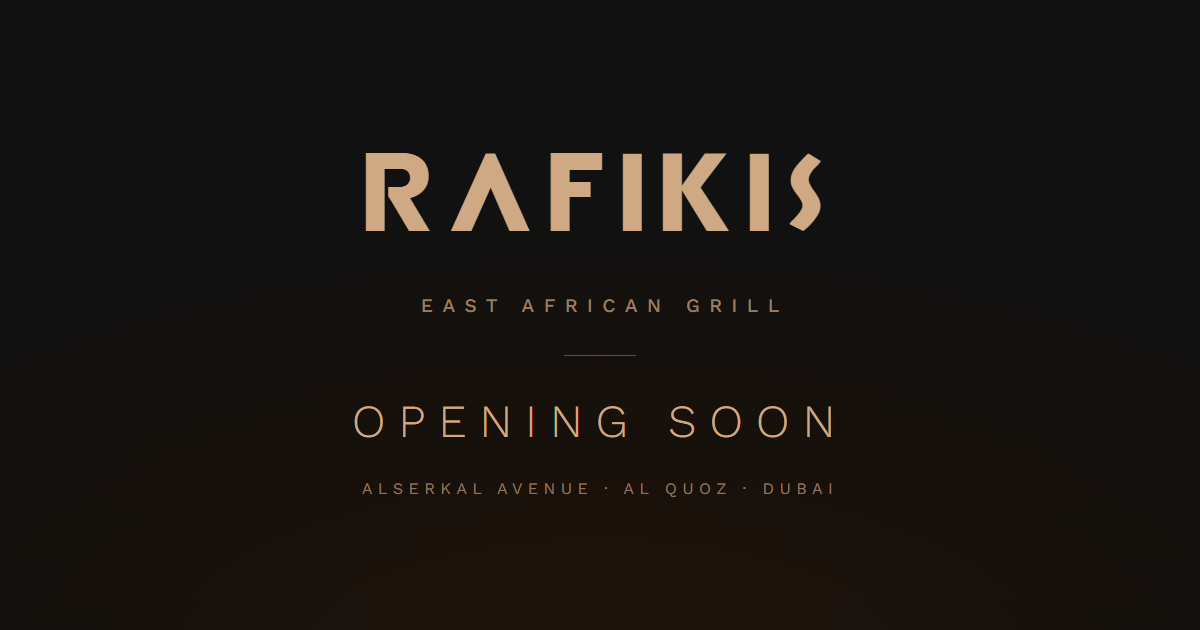
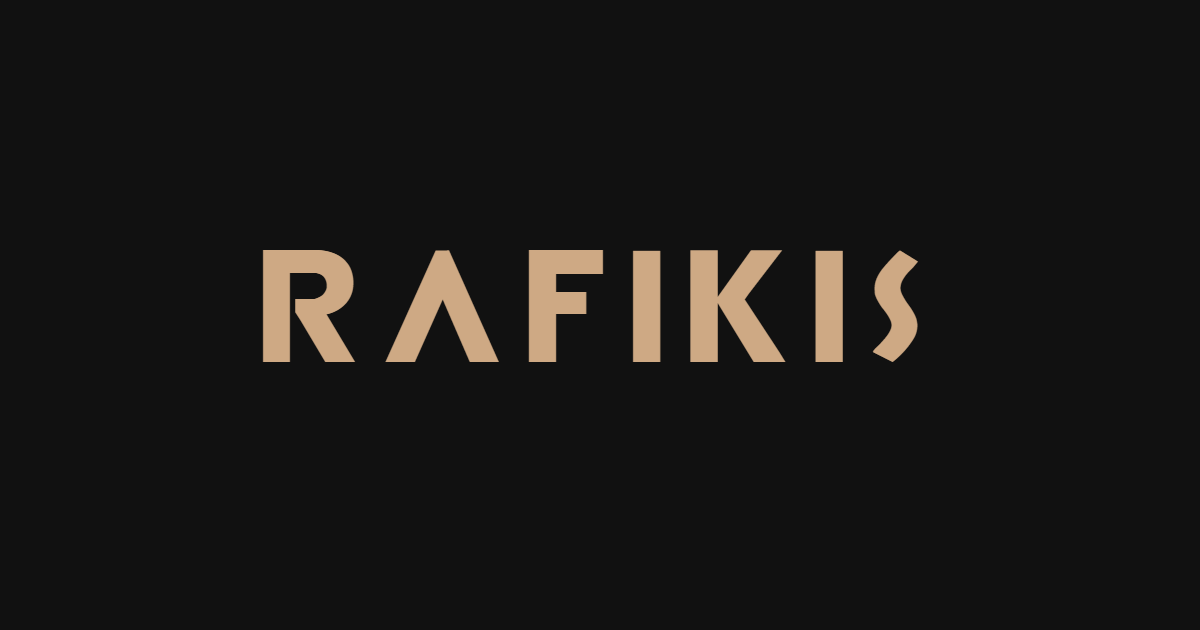
Use a plain dash in the share title, and rebuild the OG image
WhatsApp was previewing the link as "Rafikis — East African Grill at
Alserkal Avenue". The em dash reads as machine-written, so the title now
uses a plain hyphen: "Rafikis - East African Grill at Alserkal Avenue".
This applies to the page title, og:title and twitter:title, which all come
from the one constant. og:image:alt and the header's aria-label lose their
em dashes too, and there is now no em dash anywhere in the rendered head.

The share image is replaced. The supplied wordmark artwork is a 1080x1350
portrait square, which is the wrong shape for a link preview: the crawlers
want landscape, 1200x630 and under 300KB. scripts/make-og.py measures the
wordmark out of the artwork and recomposes it on a 1200x630 Charcoal field
at 76% of the width, the same proportion the favicon uses, so the two
surfaces match. Output is 25KB.

- scripts/make-og.py is now the source of record for public/og.jpg.
  scripts/render-brand-assets.mjs no longer writes that file, because
  running it would overwrite the flat JPEG with a template render; it still
  produces public/og.png.
- brand-templates/og.html is updated to the same composition, so the
  template and the shipped JPEG agree.
- scripts/probes/head-meta.js added, which dumps every share tag and reports
  whether the head contains an em dash at all.

diff --git a/brand-templates/og.html b/brand-templates/og.html
@@ -2,84 +2,38 @@
 <html lang="en">
   <head>
     <meta charset="utf-8" />
-    <title>Rafikis — Open Graph card</title>
+    <title>Rafikis - Open Graph card</title>
     <link rel="stylesheet" href="./fonts.css" />
     <link rel="stylesheet" href="./brand.css" />
     <link rel="stylesheet" href="./templates.css" />
     <style>
+      /* Charcoal field with the wordmark centred and nothing else. Same
+         treatment as public/favicon.svg, scaled to a landscape card.
+
+         scripts/make-og.py produces the shipped public/og.jpg from the wordmark
+         artwork Azeem supplied, so that file is the source of record. This page
+         is the reference for the layout, and renders the same composition from
+         the self-hosted font. */
       #og-card {
         width: 1200px;
         height: 630px;
-      }
-      #og-card .announce-inner {
-        position: absolute;
-        inset: 0;
         display: flex;
-        flex-direction: column;
         align-items: center;
         justify-content: center;
-        text-align: center;
       }
       #og-card .wordmark {
         font-family: "Rafikis", "Work Sans", sans-serif;
-        font-size: 132px;
+        font-size: 190px;
         letter-spacing: 0.1em;
         line-height: 1;
-      }
-      #og-card .descriptor {
-        font-family: "Work Sans", system-ui, sans-serif;
-        font-weight: 500;
-        font-size: 19px;
-        letter-spacing: 0.5em;
-        text-transform: uppercase;
-        margin-top: 30px;
-        padding-left: 0.5em;
-        color: rgba(206, 169, 132, 0.72);
-      }
-      #og-card .rule {
-        width: 72px;
-        height: 1px;
-        margin: 38px 0;
-      }
-      #og-card .headline {
-        font-family: "Work Sans", system-ui, sans-serif;
-        font-weight: 300;
-        font-size: 46px;
-        letter-spacing: 0.28em;
-        text-transform: uppercase;
-        line-height: 1.2;
-      }
-      #og-card .location {
-        font-family: "Work Sans", system-ui, sans-serif;
-        font-weight: 400;
-        font-size: 16px;
-        letter-spacing: 0.34em;
-        text-transform: uppercase;
-        margin-top: 30px;
-        color: rgba(206, 169, 132, 0.66);
+        color: var(--sandstone);
+        white-space: nowrap;
       }
     </style>
   </head>
   <body>
-    <section class="card announce" id="og-card">
-      <img class="photo" src="../src/assets/smoke.webp" alt="" style="opacity: 0.45" />
-      <div
-        class="warm-wash"
-        style="
-          background: radial-gradient(110% 100% at 50% 112%, #3a1c07 0%, #1d0f05 40%, #111111 78%);
-          opacity: 1;
-          mix-blend-mode: normal;
-        "
-      ></div>
-      <div class="photo-scrim" style="background: rgba(17, 17, 17, 0.4)"></div>
-      <div class="photo-vignette"></div>
-      <div class="announce-inner">
-        <span class="wordmark">RAFIKIS</span>
-        <span class="descriptor">East African Grill</span>
-        <div class="rule"></div>
-        <span class="headline">Opening Soon</span>
-        <span class="location">Alserkal Avenue &middot; Al Quoz &middot; Dubai</span>
-      </div>
+    <section class="card" id="og-card">
+      <span class="wordmark">RAFIKIS</span>
     </section>
   </body>
 </html>

diff --git a/src/routes/__root.tsx b/src/routes/__root.tsx
@@ -12,7 +12,7 @@ import appCss from "../styles.css?url";
 
 const SITE_URL = "https://www.rafikis.ae";
 const OG_IMAGE = `${SITE_URL}/og.jpg`;
-const PAGE_TITLE = "Rafikis — East African Grill at Alserkal Avenue";
+const PAGE_TITLE = "Rafikis - East African Grill at Alserkal Avenue";
 const PAGE_DESCRIPTION =
   "Rafikis East African Grill is opening soon at Alserkal Avenue, Al Quoz, Dubai. Discover our grills, snacks, sides and desserts.";
 
@@ -98,7 +98,7 @@ export const Route = createRootRouteWithContext<{ queryClient: QueryClient }>()(
       { property: "og:image", content: OG_IMAGE },
       { property: "og:image:width", content: "1200" },
       { property: "og:image:height", content: "630" },
-      { property: "og:image:alt", content: "Rafikis — East African Grill, Dubai" },
+      { property: "og:image:alt", content: "Rafikis - East African Grill, Dubai" },
       { property: "og:image:type", content: "image/jpeg" },
       { name: "twitter:card", content: "summary_large_image" },
       { name: "twitter:title", content: PAGE_TITLE },

diff --git a/scripts/probes/head-meta.js b/scripts/probes/head-meta.js
@@ -1,0 +1,18 @@
+(async () => {
+  const meta = (sel) => document.querySelector(sel)?.getAttribute("content") ?? null;
+  return {
+    title: document.title,
+    ogTitle: meta('meta[property="og:title"]'),
+    ogDescription: meta('meta[property="og:description"]'),
+    ogUrl: meta('meta[property="og:url"]'),
+    ogImage: meta('meta[property="og:image"]'),
+    ogImageAlt: meta('meta[property="og:image:alt"]'),
+    ogType: meta('meta[property="og:type"]'),
+    ogSiteName: meta('meta[property="og:site_name"]'),
+    twitterCard: meta('meta[name="twitter:card"]'),
+    twitterTitle: meta('meta[name="twitter:title"]'),
+    twitterImage: meta('meta[name="twitter:image"]'),
+    description: meta('meta[name="description"]'),
+    hasEmDash: document.head.innerHTML.includes("\u2014"),
+  };
+})();

diff --git a/src/routes/index.tsx b/src/routes/index.tsx
@@ -123,7 +123,7 @@ function Header() {
         {/* The wordmark stands alone in the header: no descriptor underneath. */}
         <a
           href="#top"
-          aria-label="Rafikis — back to top"
+          aria-label="Rafikis, back to top"
           className="absolute top-1/2 left-1/2 flex -translate-x-1/2 -translate-y-1/2 items-center"
         >
           <span className="font-brand text-cream pt-1 text-xl leading-none md:text-2xl">

diff --git a/scripts/make-og.py b/scripts/make-og.py
@@ -1,0 +1,70 @@
+"""Build the Open Graph share card from the supplied wordmark artwork (build tooling).
+
+WhatsApp, iMessage and the other link-preview crawlers want a landscape image,
+at least 300px wide, ideally 1200x630 and comfortably under 300KB. The supplied
+artwork is a 1080x1350 portrait square, so it is not used whole: the wordmark is
+measured out of it and recomposed on a 1200x630 Charcoal field at the same 76%
+of width the favicon uses, which keeps the two surfaces visually identical.
+
+Run: python scripts/make-og.py <path-to-supplied-artwork.jpg>
+"""
+
+from __future__ import annotations
+
+import sys
+from pathlib import Path
+
+from PIL import Image
+
+ROOT = Path(__file__).resolve().parent.parent
+PUBLIC = ROOT / "public"
+
+WIDTH, HEIGHT = 1200, 630
+WORDMARK_WIDTH_FRACTION = 0.76
+# The wordmark's own 3.78 ratio, used only as a sanity check on the crop.
+EXPECTED_RATIO = 3.78
+
+
+def main() -> None:
+    if len(sys.argv) < 2:
+        raise SystemExit("usage: python scripts/make-og.py <artwork>")
+    source = Path(sys.argv[1])
+    if not source.exists():
+        raise SystemExit(f"not found: {source}")
+
+    im = Image.open(source).convert("RGB")
+    background = im.getpixel((2, 2))
+
+    # The artwork is the wordmark centred on flat Charcoal, so the ink box is
+    # exactly the wordmark and nothing else.
+    grey = im.convert("L")
+    box = grey.point(lambda v: 255 if v > background[0] + 24 else 0).getbbox()
+    if not box:
+        raise SystemExit("no wordmark ink found in the supplied artwork")
+
+    mark = im.crop(box)
+    ratio = mark.width / mark.height
+    print(f"source      : {source.name}  {im.size[0]}x{im.size[1]}")
+    print(f"wordmark    : {mark.width}x{mark.height}  ratio {ratio:.2f} (expected {EXPECTED_RATIO})")
+
+    target_w = round(WIDTH * WORDMARK_WIDTH_FRACTION)
+    scale = target_w / mark.width
+    mark = mark.resize((target_w, max(1, round(mark.height * scale))), Image.LANCZOS)
+
+    card = Image.new("RGB", (WIDTH, HEIGHT), background)
+    card.paste(mark, ((WIDTH - mark.width) // 2, (HEIGHT - mark.height) // 2))
+
+    out = PUBLIC / "og.jpg"
+    card.save(out, quality=90, optimize=True, progressive=True)
+    size_kb = out.stat().st_size / 1024
+    print(f"wrote       : public/og.jpg  {WIDTH}x{HEIGHT}  {size_kb:.1f} KB")
+    print(f"              wordmark {mark.width}x{mark.height}, {mark.width / WIDTH:.0%} of width")
+    print("note        : public/og.png is rendered from brand-templates/og.html by")
+    print("              scripts/render-brand-assets.mjs and is not written here.")
+
+    if size_kb > 300:
+        raise SystemExit("og.jpg is over 300KB, which some crawlers will not fetch")
+
+
+if __name__ == "__main__":
+    main()
